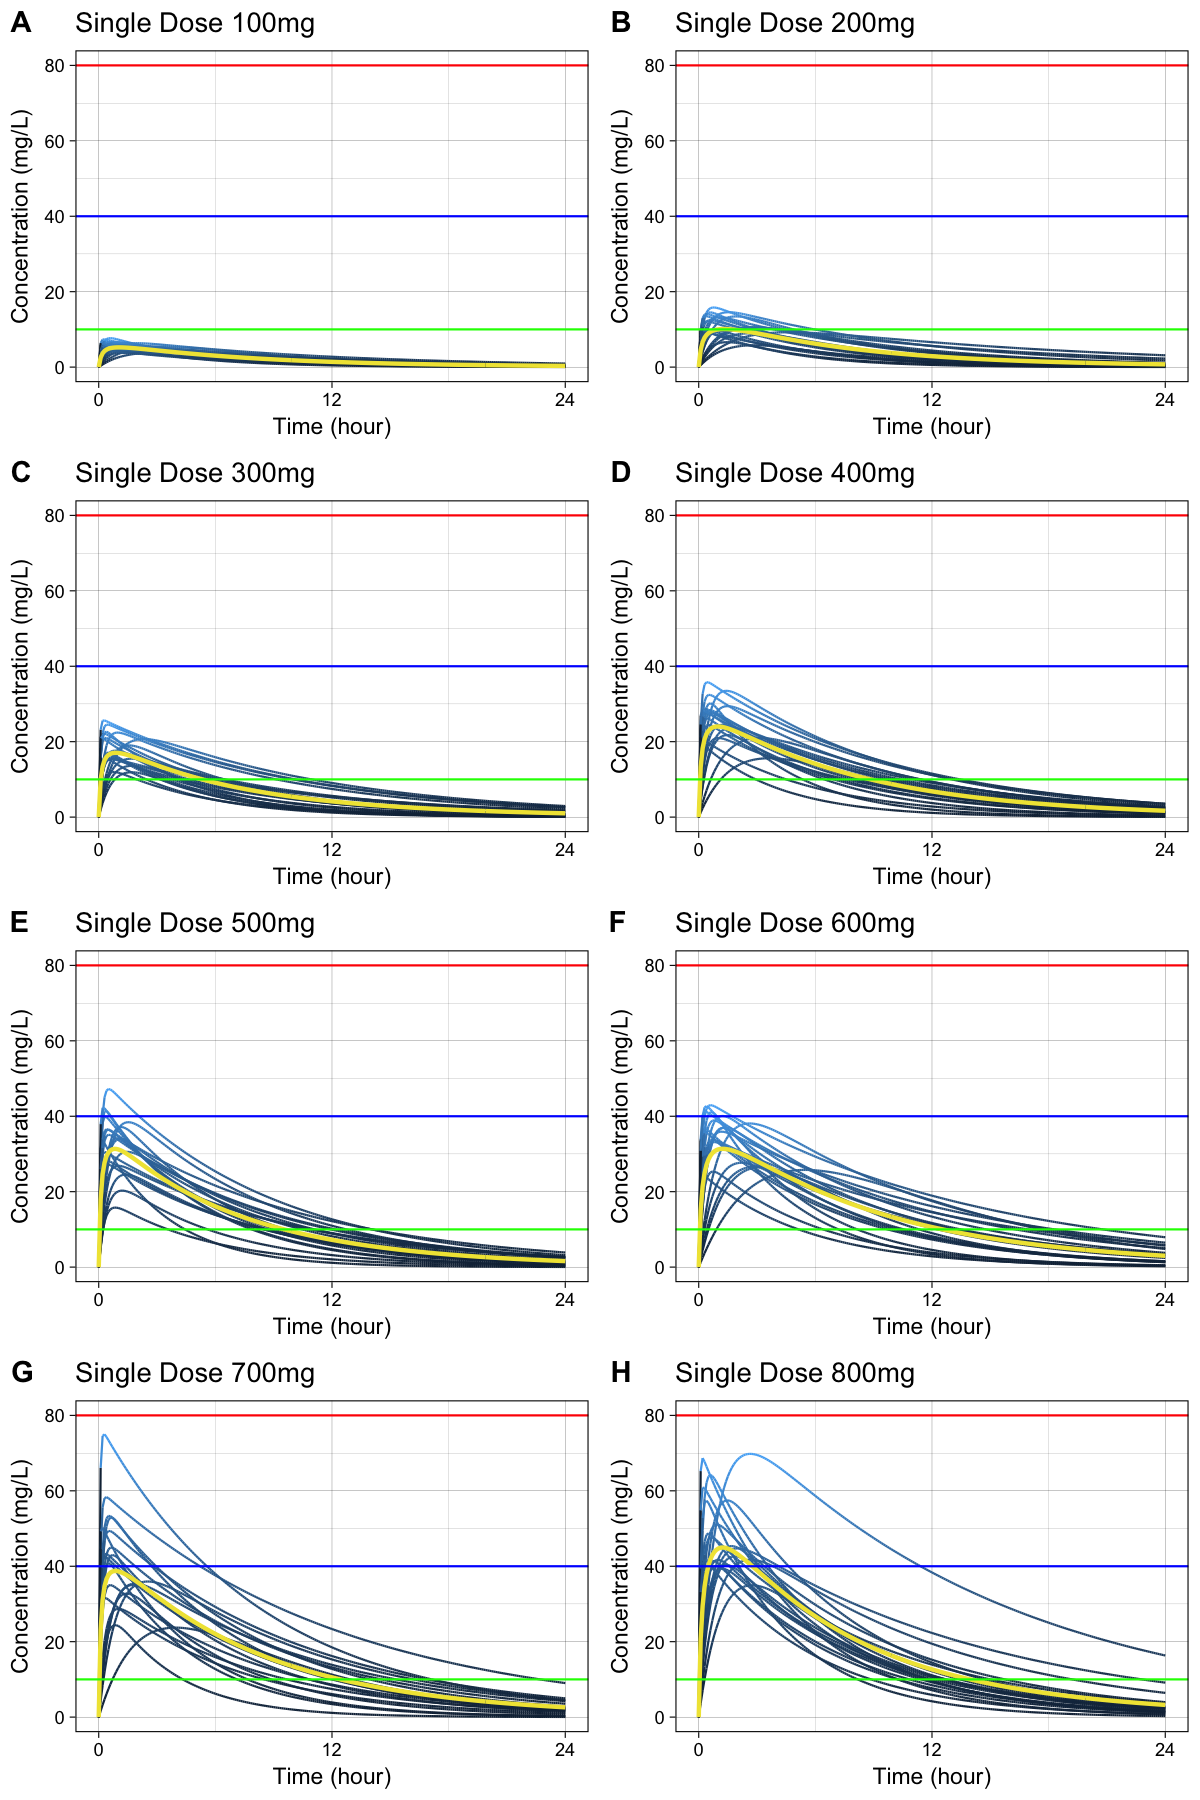
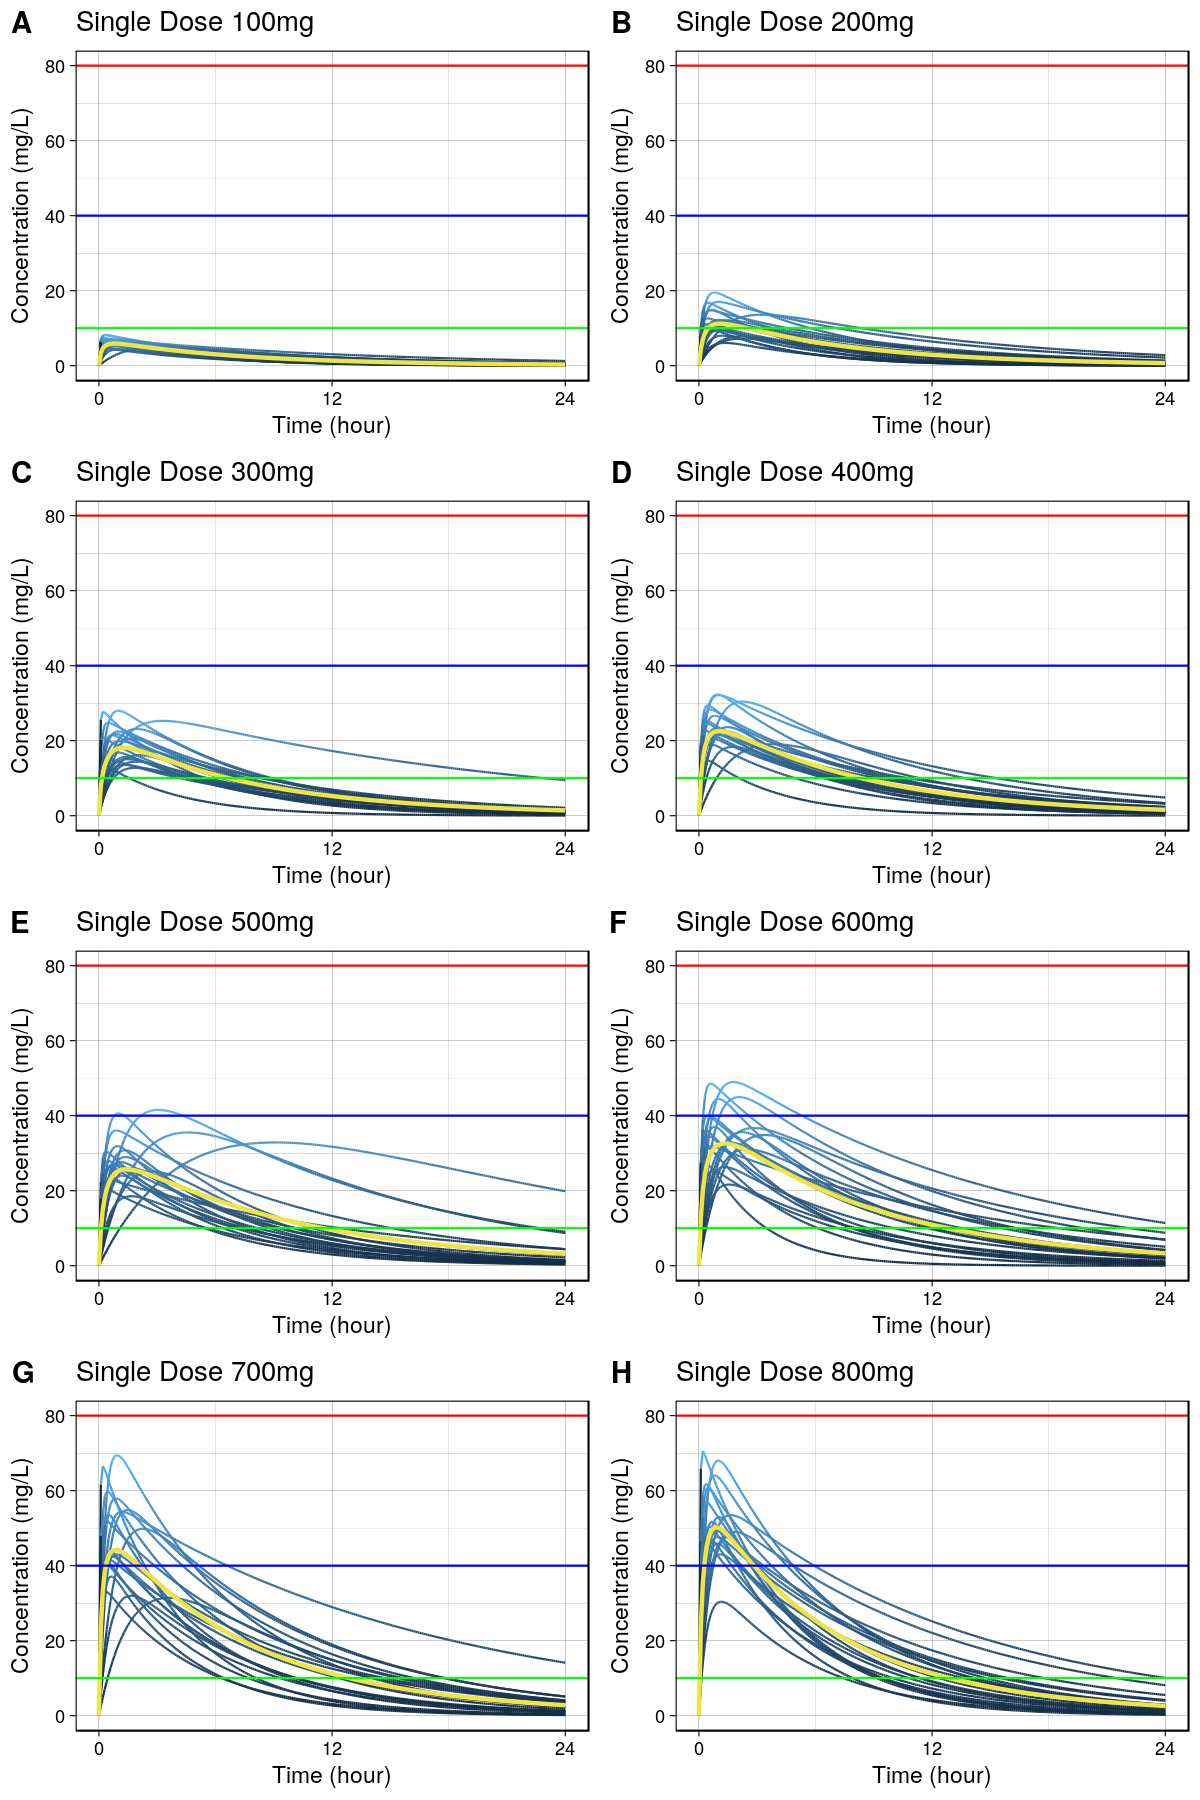
updated readme.Rmd

diff --git a/README.md b/README.md
@@ -3,6 +3,8 @@
 
 # R package: caffsim
 
+[![DOI](https://zenodo.org/badge/DOI/10.5281/zenodo.842649.svg)](https://doi.org/10.5281/zenodo.842649)
+
 > Monte Carlo Simulation of Plasma Caffeine Concentrations by Using Population Pharmacokinetic Model
 
 - This package is used for publication of the paper about pharmacokinetics of plasma caffeine.
@@ -38,12 +40,12 @@ knitr::kable(head(MyDataset), format = 'markdown')
 
 |      Tmax|      Cmax|       AUC| Half_life|       CL|        V|        Ka|        Ke|
 |---------:|---------:|---------:|---------:|--------:|--------:|---------:|---------:|
-| 1.0906131| 11.314388| 121.76524|  6.657688| 1.642505| 15.77963|  3.262995| 0.1040902|
-| 0.5077390|  9.503155|  32.08079|  1.953896| 6.234261| 17.57734|  5.887948| 0.3546760|
-| 0.5619410| 12.913824| 107.44157|  5.361767| 1.861477| 14.40232|  7.310243| 0.1292484|
-| 0.8627242| 14.795723| 125.85073|  5.261418| 1.589184| 12.06546|  4.123528| 0.1317135|
-| 1.9623962| 13.828196| 138.83715|  5.411751| 1.440537| 11.24939|  1.314898| 0.1280547|
-| 0.3461002| 14.109070| 106.51535|  4.986041| 1.877664| 13.50954| 13.322522| 0.1389880|
+| 0.4295771| 11.200306|  72.38347|  4.170024| 2.763062| 16.62631|  9.611860| 0.1661861|
+| 1.0557504| 10.892805|  71.70492|  3.754070| 2.789209| 15.10950|  2.739506| 0.1845997|
+| 1.6254760| 10.373164| 100.35826|  5.453397| 1.992860| 15.68234|  1.735315| 0.1270767|
+| 0.7127161| 12.792011|  97.34929|  4.753358| 2.054458| 14.09173|  5.146130| 0.1457917|
+| 1.6074536|  9.161395|  72.20065|  4.185217| 2.770058| 16.72914|  1.561561| 0.1655828|
+| 0.1336259| 13.664167|  72.15867|  3.565826| 2.771670| 14.26161| 40.073017| 0.1943449|
 
 ### Create a dataset for concentration-time curve
 
@@ -58,11 +60,11 @@ knitr::kable(head(MyConcTime), format = 'markdown')
 | Subject| Time|      Conc|
 |-------:|----:|---------:|
 |       1|  0.0|  0.000000|
-|       1|  0.1|  3.997178|
-|       1|  0.2|  6.949478|
-|       1|  0.3|  9.111235|
-|       1|  0.4| 10.675216|
-|       1|  0.5| 11.787516|
+|       1|  0.1|  4.116398|
+|       1|  0.2|  6.800683|
+|       1|  0.3|  8.533257|
+|       1|  0.4|  9.633592|
+|       1|  0.5| 10.314140|
 
 ### Create a concentration-time curve
 
@@ -109,14 +111,14 @@ knitr::kable(head(MyDatasetMulti), format = 'markdown')
 
 
 
-|     TmaxS|     CmaxS|      AUCS|       AI|     Aavss|     Cavss|   Cmaxss|   Cminss|
-|---------:|---------:|---------:|--------:|---------:|---------:|--------:|--------:|
-| 0.5271146| 12.484516|  79.03187| 1.143311|  96.10779|  6.585989| 15.63696| 1.960048|
-| 1.8913324| 12.019455| 179.09764| 1.648569| 213.94066| 14.924803| 22.95346| 9.030201|
-| 0.6318965| 10.665360|  98.51506| 1.328002| 142.72210|  8.209588| 15.24596| 3.765590|
-| 3.1907127|  6.310865|  84.02889| 1.396045| 158.41622|  7.002408| 12.31609| 3.493959|
-| 0.2903834| 11.633120|  71.39127| 1.146897|  97.11712|  5.949272| 14.02226| 1.795997|
-| 1.1666484|  9.491114|  94.03967| 1.333555| 144.02132|  7.836639| 14.48238| 3.622403|
+|     TmaxS|     CmaxS|      AUCS|       AI|    Aavss|     Cavss|   Cmaxss|   Cminss|
+|---------:|---------:|---------:|--------:|--------:|---------:|--------:|--------:|
+| 0.5211563| 12.499746| 119.26217| 1.358286| 149.7651|  9.938515| 17.98986| 4.745332|
+| 4.7333160|  8.288593| 141.39296| 1.518211| 185.6758| 11.782747| 19.22866| 6.563317|
+| 0.5108273| 11.474718|  91.40546| 1.248720| 123.6927|  7.617121| 15.34749| 3.056913|
+| 0.5718313| 16.096663| 171.14903| 1.434283| 167.0544| 14.262419| 24.43969| 7.400029|
+| 0.7990406|  7.860003|  81.20430| 1.394066| 157.9660|  6.767025| 11.91909| 3.369215|
+| 3.2520341|  8.906790| 102.70557| 1.249883| 123.9796|  8.558797| 17.22097| 3.442901|
 
 ### Create a dataset for concentration-time curve
 
@@ -131,11 +133,11 @@ knitr::kable(head(MyConcTimeMulti), format = 'markdown')
 | Subject| Time|     Conc|
 |-------:|----:|--------:|
 |       1|  0.0| 0.000000|
-|       1|  0.2| 6.107943|
-|       1|  0.4| 7.995832|
-|       1|  0.6| 8.477541|
-|       1|  0.8| 8.493149|
-|       1|  1.0| 8.356661|
+|       1|  0.2| 4.712591|
+|       1|  0.4| 7.232662|
+|       1|  0.6| 8.535693|
+|       1|  0.8| 9.164067|
+|       1|  1.0| 9.419339|
 
 ### Create a concentration-time curve
 
